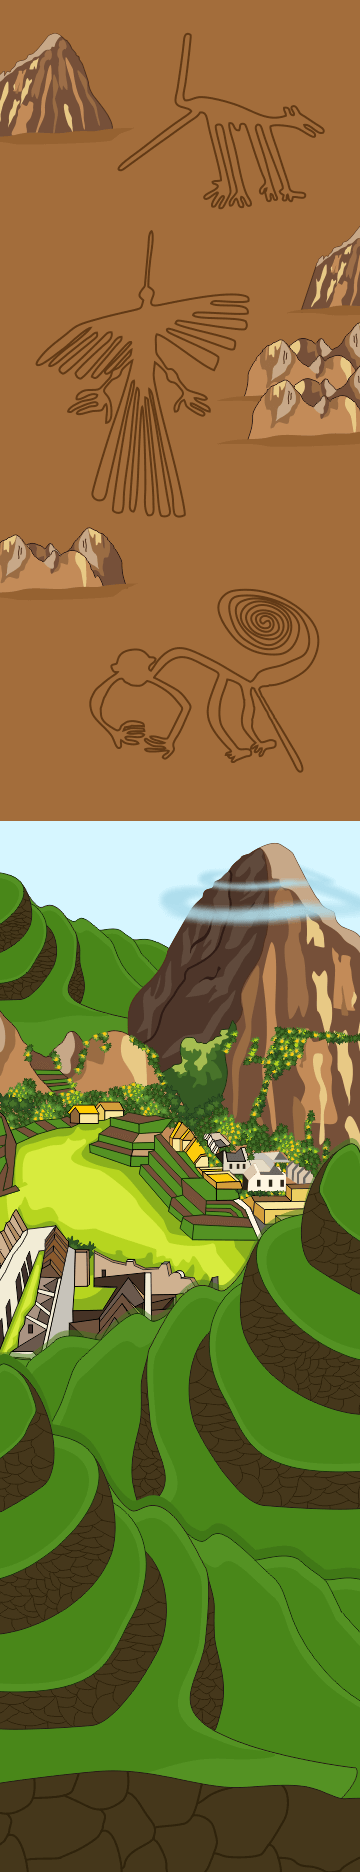
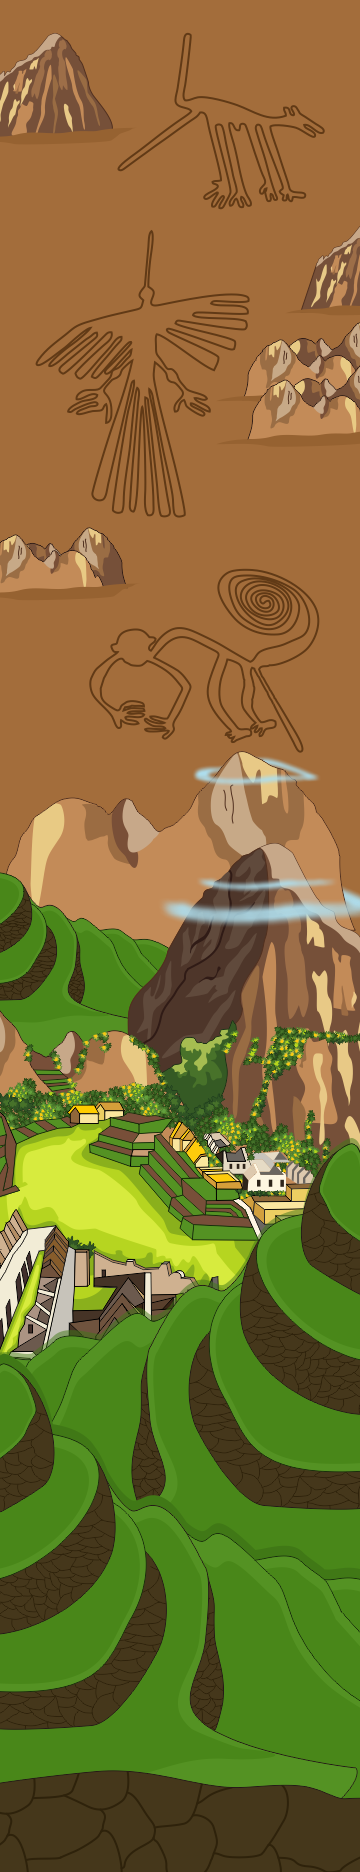
added cloud animation

Changed region(s): [[0.0, 0.2788, 1.0, 0.5267]]

diff --git a/www/templates/map/map.main.js b/www/templates/map/map.main.js
@@ -387,24 +387,28 @@ window.createGame = function(scope, stateParams, lessons, audio, injector, log) 
                     "key" : "llamaWiggle"
                 }
             },{
+                "id":"cloudMiddle",
                 "name" : "cloud_middle",
                 "region" : "peru",
                 "x" : 190,
                 "y" : 794,
                 "scale" : [game_scale,1],
             },{
+                "id":"cloudLeft",
                 "name" : "cloud_left",
                 "region" : "peru",
                 "x" : 80,
                 "y" : 830,
                 "scale" : [game_scale,1],
             },{
+                "id":"cloudRightBehind",
                 "name" : "cloud_right_behind",
                 "region" : "peru",
                 "x" : 290,
                 "y" : 810,
                 "scale" : [game_scale,1],
             },{
+                "id":"cloudRight",
                 "name" : "cloud_right",
                 "region" : "peru",
                 "x" : 280,
@@ -929,6 +933,43 @@ window.createGame = function(scope, stateParams, lessons, audio, injector, log) 
                     }
                    sprites.plantLeft.x = temp.plantLeftX - (180 * (regionOffset.tundra - game.camera.y - 200)/360);
                    sprites.plantRight.x = temp.plantRightX + (180 * (regionOffset.tundra - game.camera.y - 200)/360);
+                }
+
+                if (game.camera.y + 100 < regionOffset.peru + 800 && game.camera.y + 100 > regionOffset.peru + 800 - 360) {
+                    // game.debug.spriteInfo(sprites.cloudLeft, 20, 32);
+                    var checkTempClouds = temp.cloudLeft==undefined && temp.cloudMiddle==undefined && temp.cloudRight==undefined && temp.cloudRightBehin==undefined;
+                    if (checkTempClouds) {
+                            temp["cloudLeft"] = {
+                                "x" : sprites.cloudLeft.x,
+                                "y" : sprites.cloudLeft.y  
+                            };
+                            temp["cloudRight"] = {
+                                "x" : sprites.cloudRight.x,
+                                "y" : sprites.cloudRight.y  
+                            };
+                            temp["cloudMiddle"] = {
+                                "x" : sprites.cloudMiddle.x,
+                                "y" : sprites.cloudMiddle.y  
+                            };
+                            temp["cloudRightBehind"] = {
+                                "x" : sprites.cloudRightBehind.x,
+                                "y" : sprites.cloudRightBehind.y  
+                            };
+                    }
+                    // log.warn(temp["cloudLeft"]);
+                   sprites.cloudLeft.x = temp.cloudLeft.x + ((regionOffset.peru + 800 - game.camera.y - 100)/8);
+                   sprites.cloudRight.x = temp.cloudRight.x + ((regionOffset.peru + 800 - game.camera.y - 100)/8);
+                   sprites.cloudMiddle.x = temp.cloudMiddle.x - ((regionOffset.peru + 800 - game.camera.y - 100)/8);
+                   sprites.cloudRightBehind.x = temp.cloudRightBehind.x - ((regionOffset.peru + 800 - game.camera.y - 100)/8);
+                   sprites.cloudLeft.y = temp.cloudLeft.y + ((regionOffset.peru + 800 - game.camera.y - 100)/8);
+                   sprites.cloudRight.y = temp.cloudRight.y + ((regionOffset.peru + 800 - game.camera.y - 100)/8);
+                   sprites.cloudMiddle.y = temp.cloudMiddle.y + ((regionOffset.peru + 800 - game.camera.y - 100)/8);
+                   sprites.cloudRightBehind.y = temp.cloudRightBehind.y + ((regionOffset.peru + 800 - game.camera.y - 100)/8);
+                   sprites.cloudLeft.alpha = 1 - (regionOffset.peru + 800 - game.camera.y - 100)/720;
+                   sprites.cloudRight.alpha = 1 - (regionOffset.peru + 800 - game.camera.y - 100)/720;
+                   sprites.cloudMiddle.alpha = 1 - (regionOffset.peru + 800 - game.camera.y - 100)/720;
+                   sprites.cloudRightBehind.alpha = 1 - (regionOffset.peru + 800 - game.camera.y - 100)/720;
+
                 }
 
                 if (game.camera.y + 500 < regionOffset.tundra && game.camera.y + 500 > regionOffset.forest + 300) {
